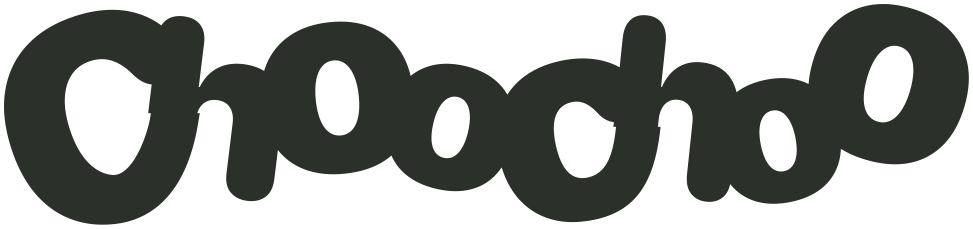
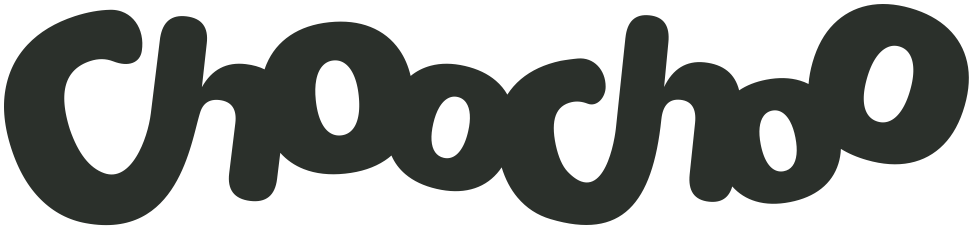
Use the latest Choochoo title artwork

diff --git a/choochoo/index.html b/choochoo/index.html
@@ -25,7 +25,7 @@
             <img class="app-icon" src="/choochoo/app-icon.png?v=4" width="384" height="384" alt="">
         </div>
         <h1>
-            <img class="wordmark" src="/choochoo/choochoo-title.png?v=2" width="973" height="229" alt="Choochoo">
+            <img class="wordmark" src="/choochoo/choochoo-title.png?v=3" width="973" height="230" alt="Choochoo">
         </h1>
         <p>Turn the tracks, collect stars, and guide the train to the station. Watch the cozy worlds come to life in color.</p>
         <a class="app-store" href="https://apps.apple.com/app/id6833695828">
